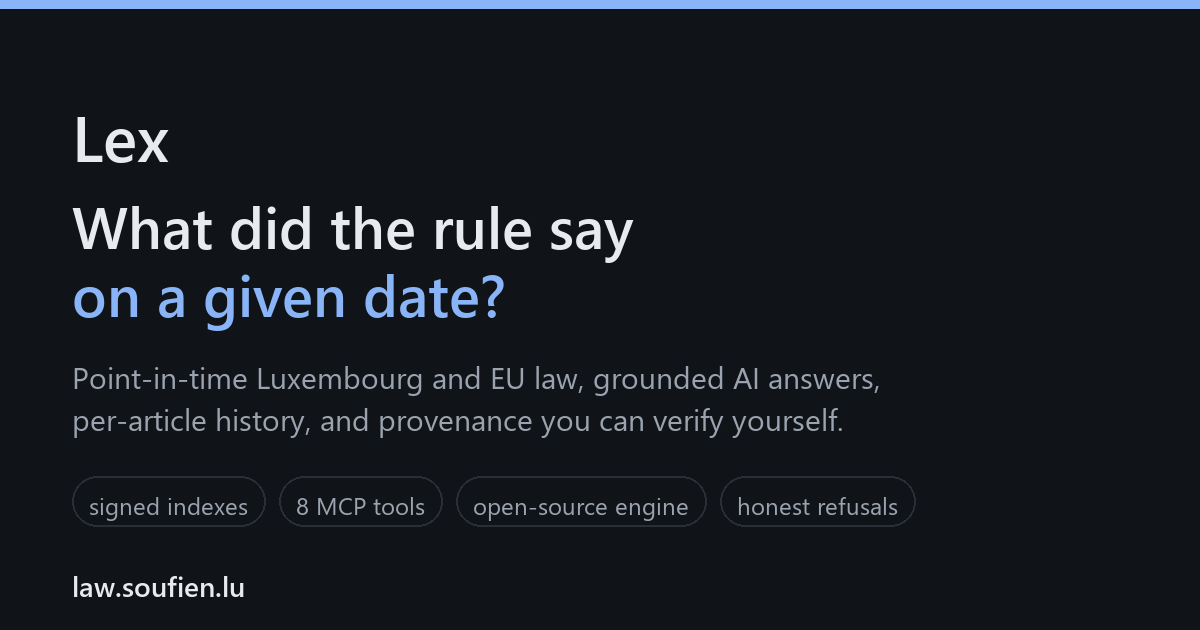
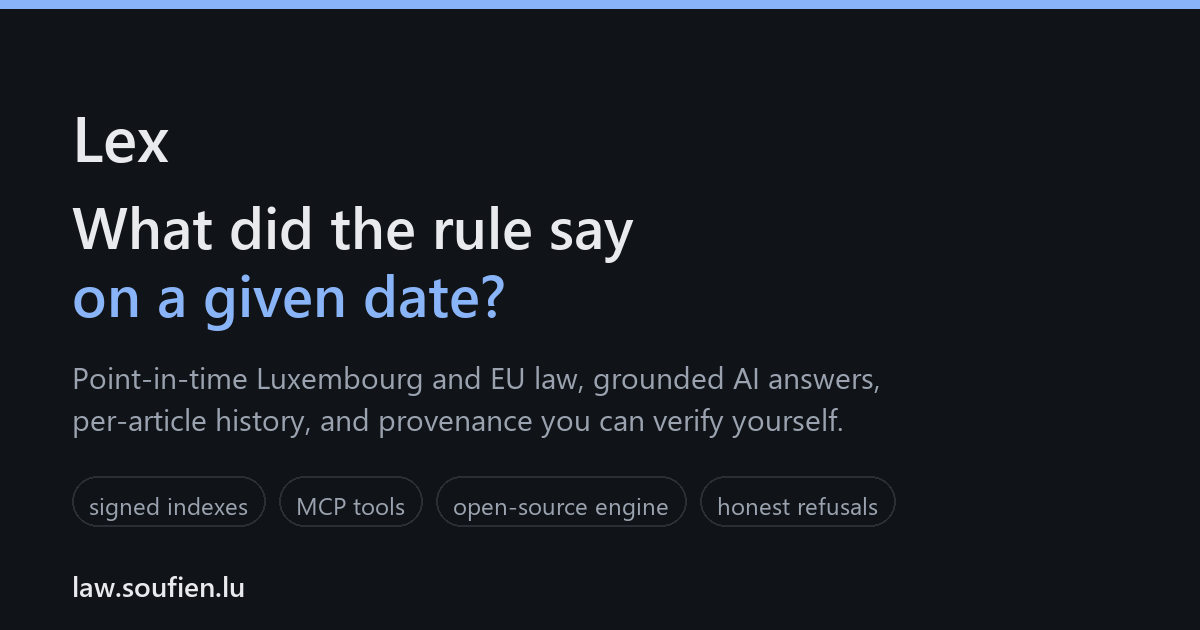
fix(tests): find the repository root in a linked worktree, and drop the count from the card
O5. The root search accepted only Directory.Exists(.git). In a linked
worktree git writes .git as a FILE holding a gitdir pointer, so the search
climbed past the worktree to the volume root. The guard passed in the primary
checkout and would have failed everywhere the integration branch is actually
assembled.

The predicate now accepts either form, and the test proves it against a real
linked worktree created and removed by git rather than a hand-made file, so it
cannot drift from what git actually writes. It also asserts the negative, that
a directory with neither form is not a root.

O6. The card said 8 MCP tools while the endpoint served ten. That is the
developers-page bug again, in the one surface the count-at-build rule cannot
reach: a numeral baked into a PNG is a claim nobody can maintain and no page
test can see. The numeral is gone rather than corrected, the card is
regenerated, and the asset guard now rejects any numeric tool count in the
generator.

Receipt: accepting only the directory form turns the worktree test red;
restoring the numeral turns the guard red. Restores byte-identical. Suite 2267
passed, 2 failed, the known Canon1FreezeTests pair. No worktree left behind.

Changed region(s): [[0.2467, 0.754, 0.7708, 0.8444]]

diff --git a/tests/Lex.Tests/TrustNoticeTests.cs b/tests/Lex.Tests/TrustNoticeTests.cs
@@ -696,6 +696,14 @@ public sealed class TrustNoticeTests : IDisposable
             scanned++;
             foreach (var wording in new[] { "CC-BY", "CC BY", "creativecommons", "creative commons" })
                 Assert.DoesNotContain(wording, content, StringComparison.OrdinalIgnoreCase);
+
+            // O6. A count in an image is a claim nobody can maintain: the card said 8 while the
+            // endpoint served ten, which is the developers-page bug in a surface the count-at-build
+            // rule cannot reach. The numeral goes rather than being corrected.
+            Assert.DoesNotMatch(
+                new System.Text.RegularExpressions.Regex(
+                    @"\d+\s*(MCP|tools)", System.Text.RegularExpressions.RegexOptions.IgnoreCase),
+                content);
         }
 
         // A guard that scanned nothing would pass forever.
@@ -705,14 +713,83 @@ public sealed class TrustNoticeTests : IDisposable
                 .Select(Path.GetFileName));
     }
 
+    /// <summary>
+    /// Whether this directory is a repository root.
+    ///
+    /// In a LINKED WORKTREE .git is a FILE containing a gitdir pointer, not a directory. Accepting
+    /// only the directory form made the search climb past every worktree to the volume root, so
+    /// this test passed in the primary checkout and failed everywhere the integration branch is
+    /// actually assembled.
+    /// </summary>
+    internal static bool IsRepositoryRoot(string directory)
+    {
+        var git = Path.Combine(directory, ".git");
+        return Directory.Exists(git) || File.Exists(git);
+    }
+
     /// <summary>The repository root, found from the test assembly rather than assumed.</summary>
     private static string RepositoryRoot()
     {
         var directory = new DirectoryInfo(AppContext.BaseDirectory);
-        while (directory is not null && !Directory.Exists(Path.Combine(directory.FullName, ".git")))
+        while (directory is not null && !IsRepositoryRoot(directory.FullName))
             directory = directory.Parent;
         Assert.NotNull(directory);
         return directory!.FullName;
+    }
+
+    /// <summary>
+    /// O5. Both forms of a repository root, proven against a real linked worktree rather than a
+    /// hand-made file, so the test cannot drift from what git actually writes.
+    /// </summary>
+    [Fact]
+    public void A_repository_root_is_found_in_a_linked_worktree_too()
+    {
+        var scratch = Path.Combine(Path.GetTempPath(), "lex-worktree-" + Guid.NewGuid().ToString("N")[..8]);
+        Directory.CreateDirectory(scratch);
+        try
+        {
+            // The primary checkout, where .git is a directory.
+            Assert.True(IsRepositoryRoot(RepositoryRoot()));
+            Assert.True(Directory.Exists(Path.Combine(RepositoryRoot(), ".git")));
+
+            // A linked worktree, where git writes .git as a FILE.
+            var worktree = Path.Combine(scratch, "linked");
+            var git = System.Diagnostics.Process.Start(new System.Diagnostics.ProcessStartInfo(
+                "git", $"worktree add --detach \"{worktree}\"")
+            {
+                WorkingDirectory = RepositoryRoot(),
+                RedirectStandardOutput = true,
+                RedirectStandardError = true,
+            })!;
+            git.WaitForExit();
+            Assert.True(git.ExitCode == 0, git.StandardError.ReadToEnd());
+
+            try
+            {
+                Assert.True(File.Exists(Path.Combine(worktree, ".git")),
+                    "git no longer writes .git as a file in a linked worktree");
+                Assert.False(Directory.Exists(Path.Combine(worktree, ".git")));
+                Assert.True(IsRepositoryRoot(worktree));
+            }
+            finally
+            {
+                var remove = System.Diagnostics.Process.Start(new System.Diagnostics.ProcessStartInfo(
+                    "git", $"worktree remove --force \"{worktree}\"")
+                {
+                    WorkingDirectory = RepositoryRoot(),
+                    RedirectStandardOutput = true,
+                    RedirectStandardError = true,
+                })!;
+                remove.WaitForExit();
+            }
+
+            // And neither form present is not a root.
+            Assert.False(IsRepositoryRoot(scratch));
+        }
+        finally
+        {
+            try { Directory.Delete(scratch, true); } catch { }
+        }
     }
 
     /// <summary>

diff --git a/src/Lex.Web/wwwroot/make-og.py b/src/Lex.Web/wwwroot/make-og.py
@@ -36,7 +36,11 @@ d.text((72, 398), "per-article history, and provenance you can verify yourself."
 # claim: it is published as an image, so no page test and no text search would ever have found
 # it. What replaced it is a claim about our own engine, which is ours to make, since the lex
 # repository is Apache-2.0 and says so on /developers.
-chips = ["signed indexes", "8 MCP tools", "open-source engine", "honest refusals"]
+# No numeral on the tool chip either. The card said 8 while the endpoint served ten, which is the
+# same defect the developers page had when its lede said Eight and its heading said nine: a count
+# in copy is a claim, and a count baked into an image is a claim nobody can maintain. The
+# count-at-build rule cannot reach a PNG, so the number goes rather than being corrected.
+chips = ["signed indexes", "MCP tools", "open-source engine", "honest refusals"]
 x = 72
 for c in chips:
     w = d.textlength(c, font=font(24)) + 34
